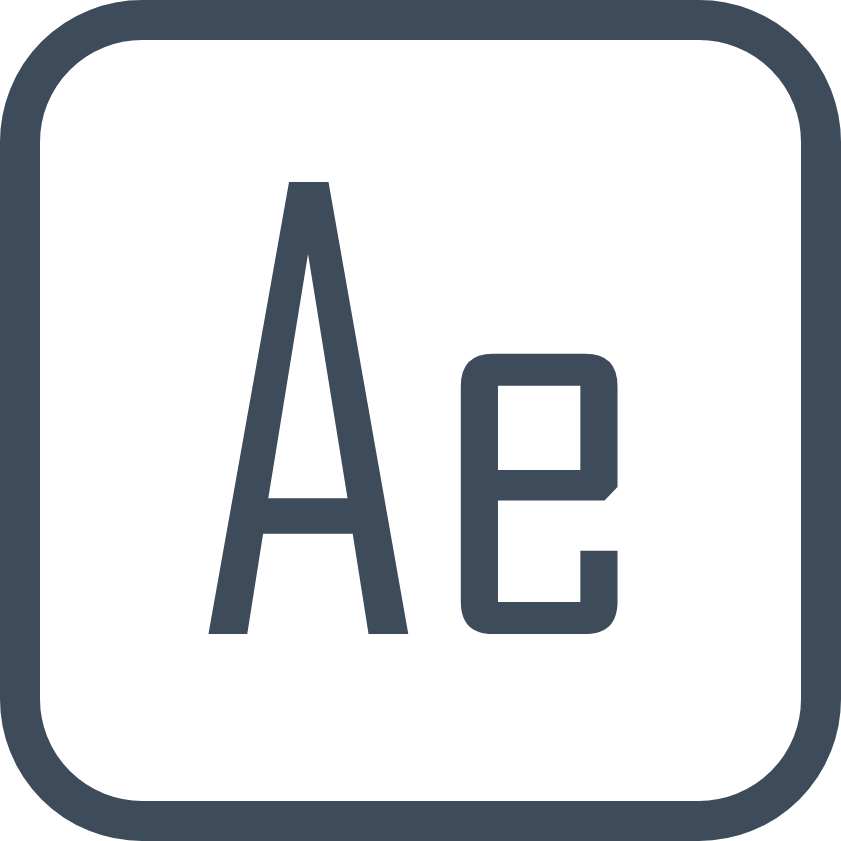
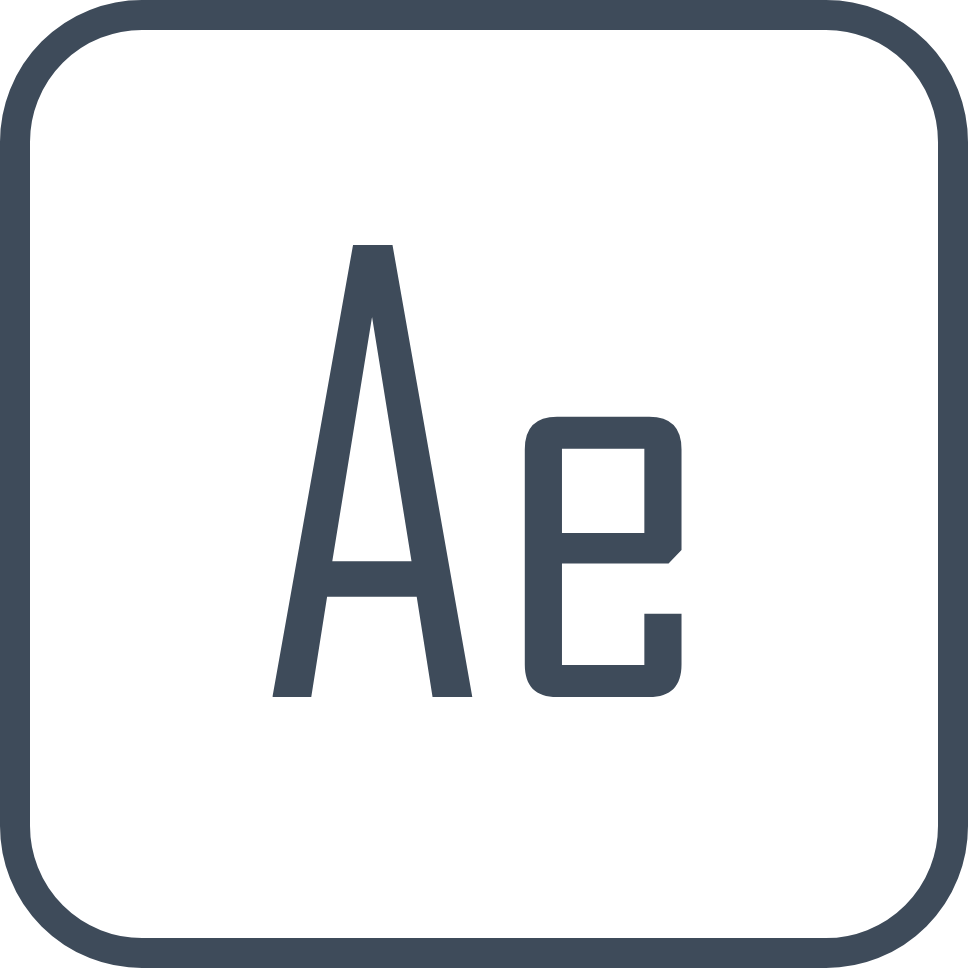
変更

Changed region(s): [[0.0, 0.0, 1.0, 1.0], [0.2473, 0.2164, 0.4946, 0.7729], [0.5256, 0.4019, 0.742, 0.7729]]

diff --git a/css/style.css b/css/style.css
@@ -20,6 +20,9 @@ body {
   top: 5px;
   left: 5px;
 }
+.logo img {
+  width: 95px;
+}
 .merumo {
   font-family: ab-andante, sans-serif;
   font-style: normal;
@@ -155,8 +158,8 @@ body {
 }
 .taitleimg2 img {
   z-index: -50;
-  opacity: 0.5;
 }
+
 .taitleimg2 h1 {
   font-family: ab-andante, sans-serif;
   font-style: normal;
@@ -265,8 +268,22 @@ body {
 img[alt="webimg"] {
   width: 100px;
 }
-.skill img {
-  width: 75px;
+.skillflex2 img {
+  width: 50px;
+}
+.skillflex2 figcaption {
+  font-family: sans-serif;
+  font-size: 12px;
+}
+.skillflex2 {
+  display: flex;
+  max-width: 300px;
+  margin: 0 auto;
+  margin-top: 25px;
+}
+.skillflex2 figure {
+  margin: 0 auto;
+  margin-left: 7px;
 }
 footer p {
   color: #fff;
@@ -394,6 +411,57 @@ footer {
 
   .another {
     margin-top: -15px;
+  }
+  .profile img {
+    max-width: 275px;
+    border-radius: 50%;
+    margin-top: 25px;
+  }
+
+  .profile h1 {
+    font-family: ab-yogurt, sans-serif;
+    font-weight: 400;
+    font-style: normal;
+    font-size: 50px;
+    margin-top: 10px;
+  }
+  .profile p {
+    font-family: sans-serif;
+    font-weight: lighter;
+    font-size: 15px;
+  }
+  .skillflex {
+    display: flex;
+    margin: 0 auto;
+    max-width: 750px;
+    margin-top: -25px;
+  }
+  .skill h1 {
+    margin-top: 75px;
+    font-family: ab-andante, sans-serif;
+    font-style: normal;
+    font-weight: 400;
+    font-size: 40px;
+  }
+  img[alt="webimg"] {
+    width: 175px;
+  }
+  .skillflex2 img {
+    width: 100px;
+  }
+  .skillflex2 figcaption {
+    font-family: sans-serif;
+    font-size: 15px;
+  }
+  .skillflex2 {
+    margin: 0 auto;
+    margin-top: 25px;
+    margin-left: -40px;
+    margin-right: 0;
+  }
+  .skillflex2 figure {
+    margin: 0 auto;
+    margin-left: 50px;
   }
 }
 @media screen and (max-width: 959px) {

diff --git a/profile.html b/profile.html
@@ -111,7 +111,7 @@
     </header>
     <main>
       <div class="taitleimg2">
-        <img src="./image/hito2.png" alt="" />
+        <img src="./image/hito2.png" alt="hito2" />
         <h1>プロフィール</h1>
       </div>
 
@@ -128,15 +128,28 @@
         </div>
         <div class="skill">
           <h1>スキル</h1>
-          <figure>
-            <img src="./image/web.png" alt="webimg" />
-            <figcaption>html/css</figcaption>
-          </figure>
-          <div class="flex">
+          <div class="skillflex">
             <figure>
-              <img src="./image/Ae.png" alt="" />
-              <figcaption>After Effects</figcaption>
+              <img src="./image/web.png" alt="webimg" />
+              <figcaption>html/css</figcaption>
             </figure>
+
+            <div class="skillflex2">
+              <figure>
+                <img src="./image/Ae.png" alt="" />
+                <figcaption>After Effects</figcaption>
+              </figure>
+
+              <figure>
+                <img src="./image/Pr.png" alt="" />
+                <figcaption>Premiere Pro</figcaption>
+              </figure>
+
+              <figure>
+                <img src="./image/bubble.png" alt="" />
+                <figcaption>.bubble</figcaption>
+              </figure>
+            </div>
           </div>
         </div>
       </section>
